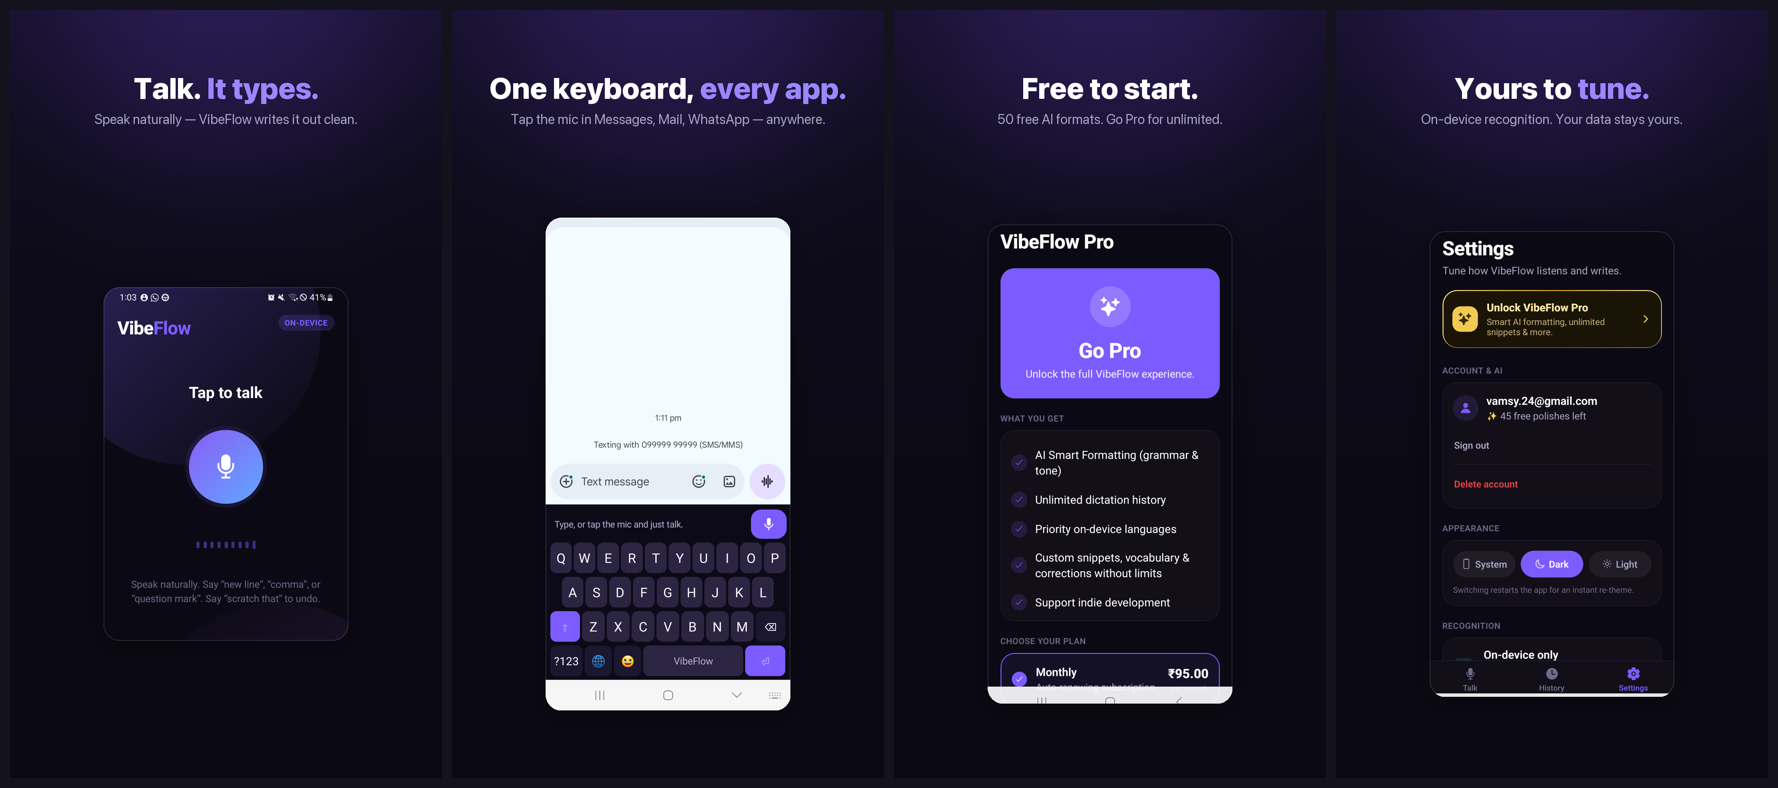
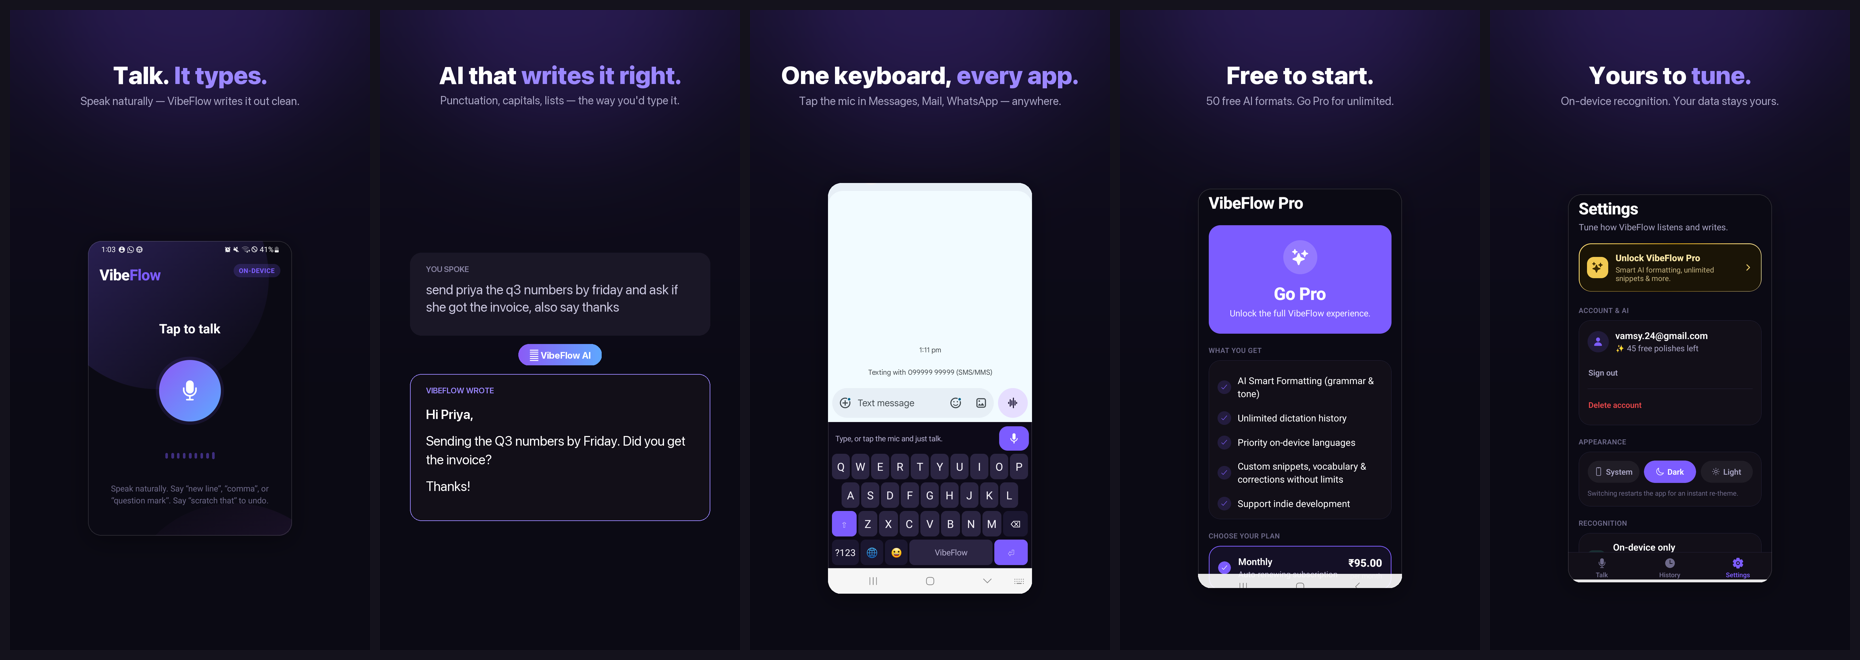
assets: add before->after Play frame + 5-up contact sheet
OUT_05_beforeafter.png — an illustrative before->after frame (raw spoken line ->
clean formatted message) built with Pillow (beforeafter.py), no device capture
needed. Rounds out the Android set to 5 cohesive 1080x1920 frames (4 real device
captures + 1 illustrative). Only the Email/Message/Notes/Plan style picker still
wants a live capture. Annual-plan note: Play Console confirms both base plans
(annual + monthly-earlybird) are Active in 174 countries incl. India, so the
device paywall showing only Monthly is RC/device cache propagation, not config.

Claude-Session: https://claude.ai/code/session_01XnQmJFXE5ZUCdq3UBh6hnA

diff --git a/docs/store-assets/android/beforeafter.py b/docs/store-assets/android/beforeafter.py
@@ -1,0 +1,126 @@
+#!/usr/bin/env python3
+"""Before -> after frame: raw dictation transformed into clean formatted text.
+Illustrative marketing frame (no device capture needed). 1080x1920, brand style.
+"""
+import sys
+from PIL import Image, ImageDraw, ImageFont, ImageFilter
+
+W, H = 1080, 1920
+BG_TOP, BG_BOT = (0x16, 0x11, 0x2C), (0x0B, 0x0A, 0x14)
+INK = (255, 255, 255)
+ACCENT = (0x9B, 0x87, 0xFF)
+SUB = (0xA7, 0xA3, 0xC2)
+CARD_RAW = (0x1A, 0x17, 0x26)
+CARD_OUT = (0x12, 0x0F, 0x18)
+FAINT = (0x8B, 0x86, 0xA6)
+SFNS = "/System/Library/Fonts/SFNS.ttf"
+
+def font(size, weight="Bold"):
+    f = ImageFont.truetype(SFNS, size)
+    try: f.set_variation_by_name(weight)
+    except Exception: pass
+    return f
+
+def gradient_bg():
+    img = Image.new("RGB", (W, H), BG_BOT)
+    top = Image.new("RGB", (W, H), BG_TOP)
+    mask = Image.new("L", (1, H))
+    for y in range(H):
+        mask.putpixel((0, y), int(255 * max(0, 1 - y / (H * 0.62))))
+    img.paste(top, (0, 0), mask.resize((W, H)))
+    glow = Image.new("RGB", (W, H), BG_BOT)
+    ImageDraw.Draw(glow).ellipse([W//2-460, -360, W//2+460, 360], fill=(0x3A, 0x24, 0x74))
+    glow = glow.filter(ImageFilter.GaussianBlur(160))
+    return Image.blend(img, glow, 0.5)
+
+def wrap(draw, text, f, maxw):
+    words, lines, cur = text.split(), [], ""
+    for w in words:
+        t = (cur + " " + w).strip()
+        if draw.textlength(t, font=f) <= maxw:
+            cur = t
+        else:
+            lines.append(cur); cur = w
+    if cur: lines.append(cur)
+    return lines
+
+def draw_wrapped(draw, x, y, text, f, fill, maxw, lh):
+    for ln in wrap(draw, text, f, maxw):
+        draw.text((x, y), ln, font=f, fill=fill); y += lh
+    return y
+
+def main(out):
+    canvas = gradient_bg().convert("RGBA")
+    d = ImageDraw.Draw(canvas)
+
+    # caption
+    hf = font(74, "Heavy"); sf = font(34, "Regular")
+    segs = [("AI that ", INK), ("writes it right.", ACCENT)]
+    total = sum(d.textlength(t, font=hf) for t, _ in segs)
+    x = (W - total) / 2
+    for t, c in segs:
+        d.text((x, 150), t, font=hf, fill=c); x += d.textlength(t, font=hf)
+    sub = "Punctuation, capitals, lists — the way you'd type it."
+    d.text(((W - d.textlength(sub, font=sf)) / 2, 250), sub, font=sf, fill=SUB)
+
+    M = 90                      # card side margin
+    cw = W - 2 * M
+    lab = font(24, "Semibold")
+    body = font(40, "Regular")
+    bodyb = font(40, "Semibold")
+
+    # --- pre-measure both cards so the whole group can be vertically centered ---
+    raw = "send priya the q3 numbers by friday and ask if she got the invoice, also say thanks"
+    raw_lines = len(wrap(d, raw, body, cw - 96))
+    rh = 60 + 44 + raw_lines * 52 + 40
+    body_pre = len(wrap(d, "Sending the Q3 numbers by Friday. Did you get the invoice?", body, cw - 96))
+    fh_pre = 34 + 22 + 62 + 56 + 24 + body_pre * 56 + 24 + 56 + 50
+    chip_h_pre = 64
+    group_h = rh + 26 + chip_h_pre + 26 + fh_pre
+    ry0 = max(400, 380 + ((1880 - 380) - group_h) // 2)
+
+    # --- RAW card (what you said) ---
+    lines = wrap(d, raw, body, cw - 96)
+    d.rounded_rectangle([M, ry0, M + cw, ry0 + rh], 34, fill=CARD_RAW)
+    d.text((M + 48, ry0 + 34), "YOU SPOKE", font=lab, fill=FAINT)
+    yy = ry0 + 34 + 52
+    draw_wrapped(d, M + 48, yy, raw, body, (0xC9, 0xC6, 0xDE), cw - 96, 52)
+
+    # --- connector chip ---
+    chip_y = ry0 + rh + 26
+    chip_w, chip_h = 250, 64
+    cx = (W - chip_w) // 2
+    grad = Image.new("RGB", (chip_w, chip_h), (0x8B, 0x5C, 0xF6))
+    for i in range(chip_w):
+        r = int(0x8B + (0x5F - 0x8B) * i / chip_w)
+        g = int(0x5C + 0xA8 * 0 + (0xA8 - 0x5C) * i / chip_w)
+        b = int(0xF6 + (0xFF - 0xF6) * i / chip_w)
+        for j in range(chip_h): grad.putpixel((i, j), (r, g, b))
+    gmask = Image.new("L", (chip_w, chip_h), 0)
+    ImageDraw.Draw(gmask).rounded_rectangle([0, 0, chip_w, chip_h], chip_h//2, fill=255)
+    canvas.paste(grad, (cx, chip_y), gmask)
+    cd = ImageDraw.Draw(canvas)
+    cf = font(28, "Bold")
+    tx = "✨ VibeFlow AI"
+    cd.text((cx + (chip_w - cd.textlength(tx, font=cf)) / 2, chip_y + 16), tx, font=cf, fill=INK)
+
+    # --- FORMATTED card (what VibeFlow wrote) — sized to content ---
+    fy0 = chip_y + chip_h + 26
+    d = ImageDraw.Draw(canvas)
+    body_txt = "Sending the Q3 numbers by Friday. Did you get the invoice?"
+    body_lines = len(wrap(d, body_txt, body, cw - 96))
+    # header(62) + greeting(56)+gap(24) + body(n*56)+gap(24) + signoff(56) + pads(34+50)
+    fh = 34 + 22 + 62 + 56 + 24 + body_lines * 56 + 24 + 56 + 50
+    d.rounded_rectangle([M, fy0, M + cw, fy0 + fh], 34, fill=CARD_OUT,
+                        outline=(0x9B, 0x87, 0xFF, 90), width=2)
+    d.text((M + 48, fy0 + 34), "VIBEFLOW WROTE", font=lab, fill=ACCENT)
+    ty = fy0 + 34 + 62
+    ty = draw_wrapped(d, M + 48, ty, "Hi Priya,", bodyb, INK, cw - 96, 56); ty += 24
+    ty = draw_wrapped(d, M + 48, ty, body_txt, body, INK, cw - 96, 56); ty += 24
+    ty = draw_wrapped(d, M + 48, ty, "Thanks!", body, INK, cw - 96, 56)
+
+    canvas.convert("RGB").save(out, "PNG")
+    print(f"wrote {out} ({W}x{H})")
+
+if __name__ == "__main__":
+    main(sys.argv[1])
